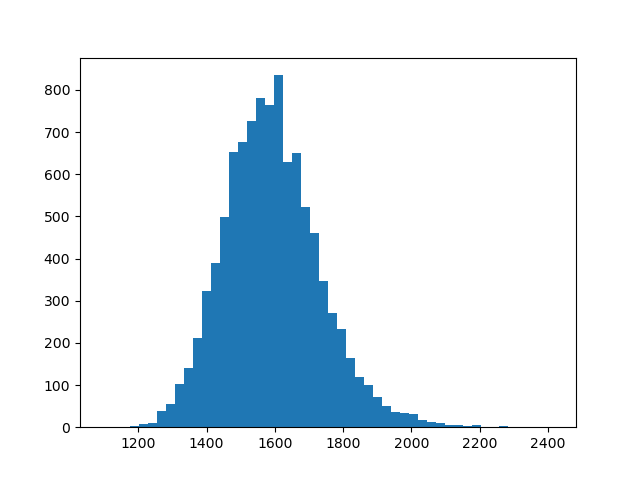
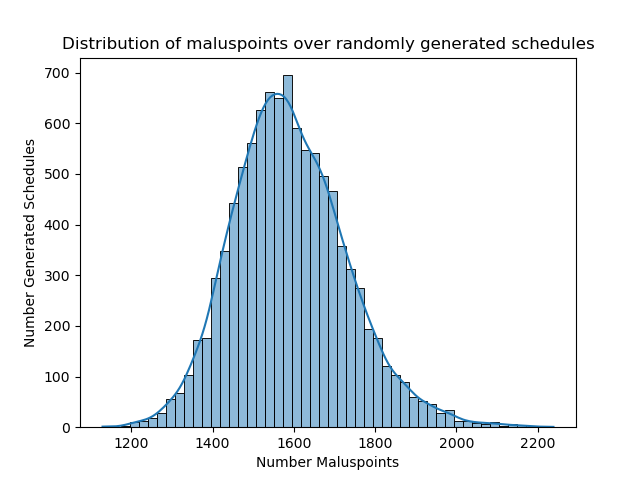
run random cost for 10000 iterations and update plot

diff --git a/code/visualize_cost.py b/code/visualize_cost.py
@@ -1,4 +1,5 @@
 import matplotlib.pyplot as plt
+import seaborn as sns
 
 from classes.schedule import Schedule
 from algorithms.random_alg import Random
@@ -15,7 +16,7 @@ def run_algorithm(algorithm, schedule, iterations):
 
 def visualize_maluspoints_barplot(algorithm, schedule, iterations):
     maluspoints = run_algorithm(algorithm, schedule, iterations)
-    plt.hist(maluspoints, 50)
+    sns.histplot(maluspoints, bins=50, kde=True, edgecolor='black')
     plt.xlabel('Number Maluspoints')
     plt.ylabel('Number Generated Schedules')
     plt.title('Distribution of maluspoints over randomly generated schedules')
